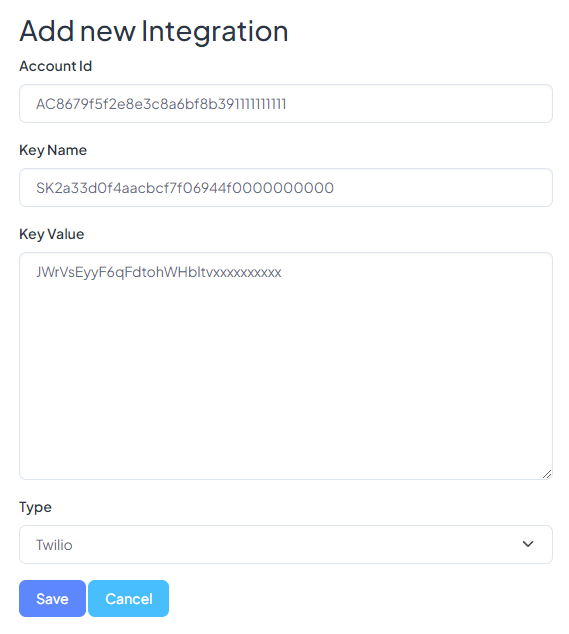
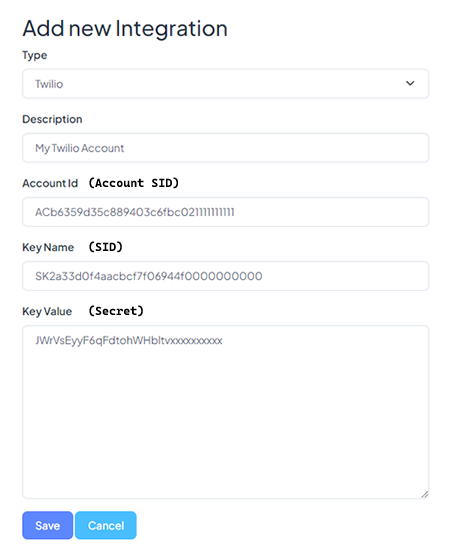
Updates to the Twilio Integration guide.

diff --git a/docs/startcloud/twilio.md b/docs/startcloud/twilio.md
@@ -18,7 +18,7 @@ In a new browser tab, sign in to your **Twilio** account. If you don't have an a
 
 After completing the registration process, go to `Account` -> `API Keys & Tokens` -> `Create API Key`.
 
-Set a **Friendly name**, choose a **Region** and a **Key Type**; then click `Create`. Here the application will display a **SID** and a **Secret**. Please note that the **secret** is only shown once. Make sure to store it in a safe location.
+Set a **Friendly name**, choose a **Region** and a **Key Type**; then click `Create`. Here the application will display a **SID** and a **Secret**. Make sure to copy these 2 values, the **SID** will be the **Key Name** (in the Twilio integration) and the **Secret** will be the **Key Value**. Note that the **Secret** _is only revealed once_, so you should save it in a safe location.
 
 
 <p align="center">
@@ -31,7 +31,7 @@ Set a **Friendly name**, choose a **Region** and a **Key Type**; then click `Cre
 
 Then click `Done`.
 
-Finally, to find the **Account Name**, go back to `Account` -> `API Keys & Tokens` and scroll to the bottom. Copy the Account SID in the **Live credentials** section.
+Finally, to find the **Account Id**, go back to `Account` -> `API Keys & Tokens` and scroll to the bottom. Copy the **Account SID** in the _Live credentials_ section.
 
 
 <p align="center">
